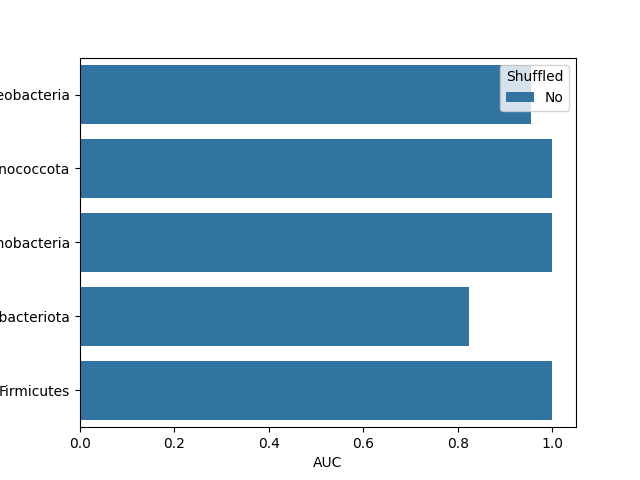
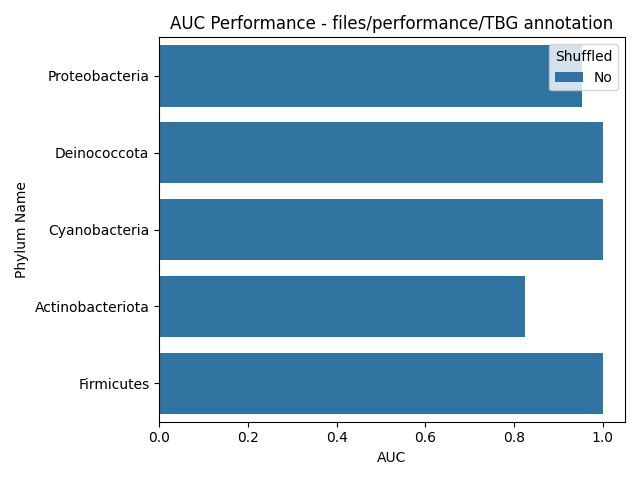
updating figures

diff --git a/scripts/performance_plot.py b/scripts/performance_plot.py
@@ -8,8 +8,13 @@ DIR = 'files/performance/'
 files = [os.path.join(DIR, f) for f in os.listdir(DIR) if os.path.isfile(os.path.join(DIR, f))]
 
 for f in files:
-    print(f)
+    #print(f)
+
+    data, _, typ = f.split('-')
+    typ = typ.partition('.')[0]
     df = pd.read_csv(f, index_col=0)
     sns.barplot(data=df, x='AUC', y='Phylum Name', hue='Shuffled', capsize=0.2, orient="h")
+    plt.title('AUC Performance - '+data+' '+typ)
+    plt.tight_layout()
     plt.savefig(f.partition('.csv')[0].replace('files', 'figures')+'.png')
     plt.close()
